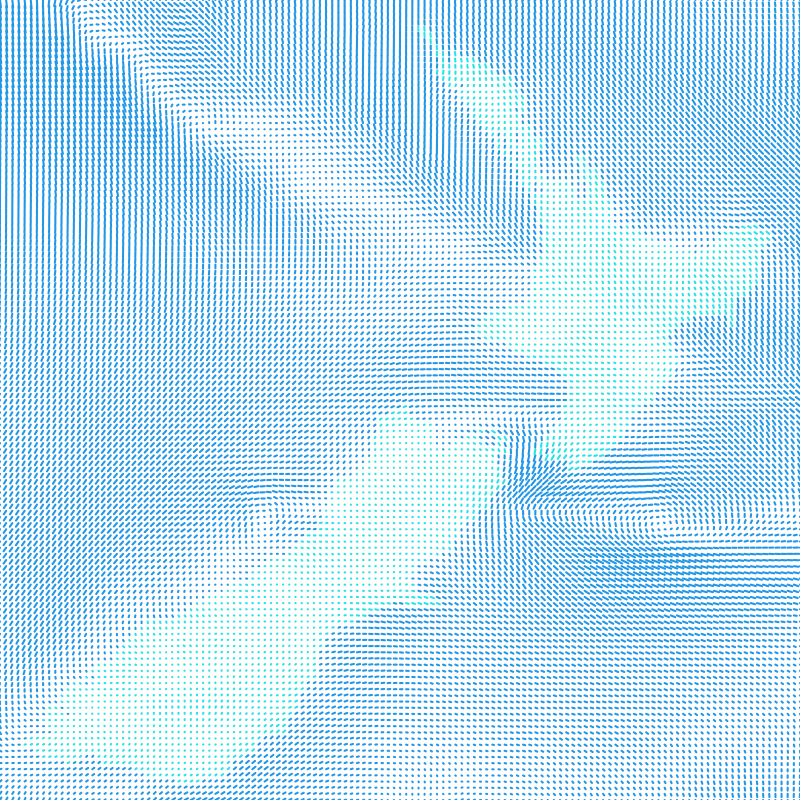
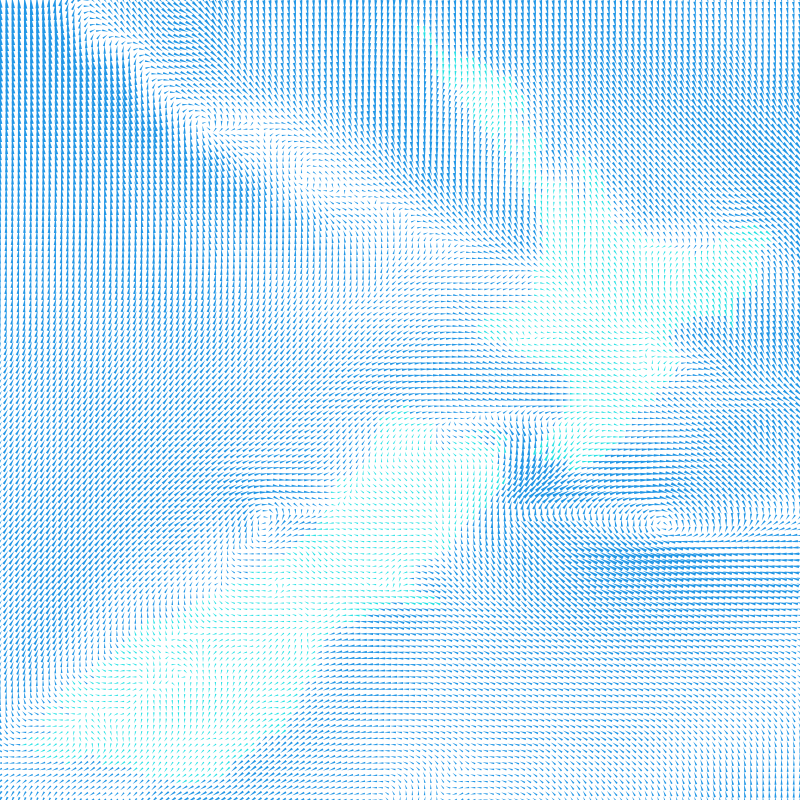
change NOMADS image from lines to triangles

diff --git a/how-data-vis-works.html b/how-data-vis-works.html
@@ -483,7 +483,8 @@ Figure&nbsp;13: Some of the properties of visual processing.
 </figcaption>
 </figure>
 </div>
-<p><a href="#fig-visual-model-demo" class="quarto-xref">Figure&nbsp;14</a> shows an image that is made up of many small elements: short lines with different <strong>lengths</strong>, <strong>angles</strong>, and <strong>colours</strong>. The angle of the lines represents wind direction and the length of the lines represents wind strength; blue lines are over the sea and green lines are over land.<a href="#fn4" class="footnote-ref" id="fnref4" role="doc-noteref"><sup>4</sup></a> The visual system can very quickly perceive many small elements like this at once. There is no need to concentrate separately on every individual line in the image. At a higher level of processing, darker and lighter <strong>regions</strong> are identified as well as regions of different colours. For example, a band of lighter wind forms a line from the top-left corner at a roughly 45-degree angle. At a higher level of processing again, at least for the denizens of Oceania, the green region is recognised as a very familiar <strong>object</strong>: the outline of New Zealand.</p>
+<p><a href="#fig-visual-model-demo" class="quarto-xref">Figure&nbsp;14</a> shows an image that is made up of many small elements: tiny triangles with different <strong>lengths</strong>, orientations (<strong>angles</strong>), and <strong>colours</strong>. The orientations of the triangles represents wind direction and the length of the triangles represents wind strength; blue triangles are over the sea and green triangles are over land.<a href="#fn4" class="footnote-ref" id="fnref4" role="doc-noteref"><sup>4</sup></a> The visual system can very quickly perceive many small elements like this at once. There is no need to concentrate separately on every individual triangle in the image. At a higher level of processing, darker and lighter <strong>regions</strong> are identified as well as regions of different colours. For example, a band of lighter wind forms a line from the top-left corner at a roughly 45-degree angle. At a higher level of processing again, at least for the denizens of Oceania, the green regions are recognised as a very familiar <strong>object</strong>: the outline of New Zealand.</p>
+<p>The small lines convey a lot of simple pieces of information; what is the wind strength and direction at each location. The darker and lighter regions convey several complex information … The green regions combine to convey the single complex and abstract concept of New Zealand.</p>
 <div id="fig-visual-model-demo" class="quarto-figure quarto-figure-center quarto-float anchored">
 <figure class="quarto-float quarto-float-fig figure">
 <div aria-describedby="fig-visual-model-demo-caption-0ceaefa1-69ba-4598-a22c-09a6ac19f8ca">
@@ -1298,6 +1299,7 @@ window.document.addEventListener("DOMContentLoaded", function (event) {
 });
 </script>
 </div> <!-- /content -->
+<script type="application/javascript" src="JS/pages.js"></script>
 
 
 
